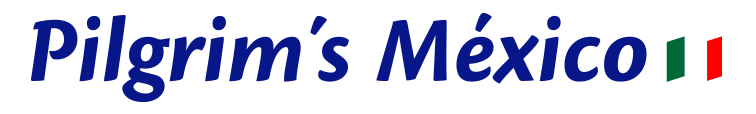
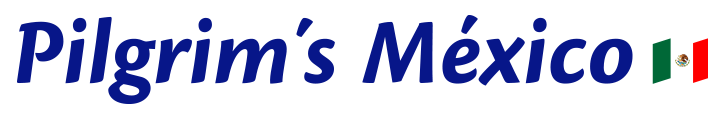
Cambios
Quitar al chef del inicio, reordenar slider de Fresco, Solo dejar
direcciones de nuestras plantas, aguila en bandera de Pilgrims Mexico,
Menus desplegables en mayuscula.

diff --git a/v1/nuestras_plantas.php b/v1/nuestras_plantas.php
@@ -99,49 +99,33 @@
 						    	<div class="col-lg-6 elem_animar">
 						    		<h3><img src="rec/img/p_incubadoras.png" alt="Icono plantas incubadoras" class="icon-pollito">Planta incubadora Antongo 1 y 2</h3>
 						    		<p class="p-plantas">
-						    			<strong>Ubicación:</strong> Carretera Antongo km 5.5, El Marqués, Querétaro.<br>
-										<strong>¿Qué procesa y cuánto?</strong><br>
-										Antongo 1: Pollito recién nacido, 1,455,000 pollitos por semana.<br>
-										Antongo 2: Pollito recién nacido, 108,864 pollitos por semana.
+						    			<strong>Ubicación:</strong> Carretera Antongo km 5.5, El Marqués, Querétaro.
 						    		</p>
 						    		<h3><img src="rec/img/p_incubadoras.png" alt="Icono plantas incubadoras" class="icon-pollito">Planta incubadora Balvanera 1 y 2</h3>
 						    		<p class="p-plantas">
-						    			<strong>Ubicación:</strong> Camino a la Esperanza- Nogales km 7, Colón, Querétaro.<br>
-										<strong>¿Qué procesa y cuánto?</strong><br>
-										Balvanera 1: Pollito de un día de edad, 420,000 pollitos por semana.<br>
-										Balvanera 2: pollito recién nacido, 300,000 por semana.
+						    			<strong>Ubicación:</strong> Camino a la Esperanza- Nogales km 7, Colón, Querétaro.
 						    		</p>
 						    		<h3><img src="rec/img/p_incubadoras.png" alt="Icono plantas incubadoras" class="icon-pollito">Planta incubadora La Esperanza</h3>
 						    		<p class="p-plantas">
-						    			<strong>Ubicación:</strong> Retorno de Don José No. 18 y 21 (respectivamente), Parque Industrial Balvanera, Corregidora, Querétaro.<br>
-										<strong>¿Qué procesa y cuánto?</strong><br>
-										Pollito de un día de edad, 260,000 pollitos por semana.
+						    			<strong>Ubicación:</strong> Retorno de Don José No. 18 y 21 (respectivamente), Parque Industrial Balvanera, Corregidora, Querétaro.
+						    		</p>
+						    		<h3><img src="rec/img/p_incubadoras.png" alt="Icono plantas incubadoras" class="icon-pollito">Planta incubadora Río Verde</h3>
+						    		<p class="p-plantas">
+						    			<strong>Ubicación:</strong> Calle Abasolo s/n Barrio Primero El Refugio, Cd. Fernández, San Luis Potosí.
 						    		</p>
 						    	</div>
 						    	<div class="col-lg-6 elem_animar">
-						    		<h3><img src="rec/img/p_incubadoras.png" alt="Icono plantas incubadoras" class="icon-pollito">Planta incubadora Río Verde</h3>
-						    		<p class="p-plantas">
-						    			<strong>Ubicación:</strong> Calle Abasolo s/n Barrio Primero El Refugio, Cd. Fernández, San Luis Potosí.<br>
-										<strong>¿Qué procesa y cuánto?</strong><br>
-										Pollito recién nacido, aproximadamente 1,730, 000 pollitos por semana.
-						    		</p>
 						    		<h3><img src="rec/img/p_incubadoras.png" alt="Icono plantas incubadoras" class="icon-pollito">Planta Incubadora Petsa</h3>
 						    		<p class="p-plantas">
-						    			<strong>Ubicación:</strong> Canatlán y Cuatro Ciénagas s/n Zona Industrial, Gómez Palacio, Durango.<br>
-										<strong>¿Qué procesa y cuánto?</strong><br>
-										Incubación para producción de pollito.
+						    			<strong>Ubicación:</strong> Canatlán y Cuatro Ciénagas s/n Zona Industrial, Gómez Palacio, Durango.
 						    		</p>
 						    		<h3><img src="rec/img/p_incubadoras.png" alt="Icono plantas incubadoras" class="icon-pollito">Planta Incubadora Citra</h3>
 						    		<p class="p-plantas">
-						    			<strong>Ubicación:</strong> Carretera Bermejillo- La Zarca km 11.5 + 2, Mapimi, Durango.<br>
-										<strong>¿Qué procesa y cuánto?</strong><br>
-										Incubación para producción de pollito.
+						    			<strong>Ubicación:</strong> Carretera Bermejillo- La Zarca km 11.5 + 2, Mapimi, Durango.
 						    		</p>
 						    		<h3><img src="rec/img/p_incubadoras.png" alt="Icono plantas incubadoras" class="icon-pollito">Planta incubadora Veracruz</h3>
 						    		<p class="p-plantas">
-						    			<strong>Ubicación:</strong> Localizada a 35 km de Boca del Río, Veracruz.<br>
-										<strong>¿Qué procesa y cuánto?</strong><br>
-										En la primera etapa de construcción, 300,000 nacimientos a la semana.
+						    			<strong>Ubicación:</strong> Localizada a 35 km de Boca del Río, Veracruz.
 						    		</p>
 						    	</div>
 						    </div>
@@ -152,41 +136,29 @@
 						    	<div class="col-lg-6 elem_animar">
 						    		<h3 ><img src="rec/img/p_alimentos.png" alt="Icono planta alimentos" class="icon-pollito">Planta de alimentos Querétaro</h3>
 						    		<p class="p-plantas">
-						    			<strong>Ubicación:</strong> Av. 5 de Febrero No. 1408, Col. San Pablo, Querétaro, Querétaro.<br>
-										<strong>¿Qué procesa y cuánto?</strong><br>
-										Alimento balanceado para aves, 1,872 toneladas diarias.
+						    			<strong>Ubicación:</strong> Av. 5 de Febrero No. 1408, Col. San Pablo, Querétaro, Querétaro.
 						    		</p>
 						    		<h3 ><img src="rec/img/p_alimentos.png" alt="Icono planta alimentos" class="icon-pollito">Planta de alimentos Colón</h3>
 						    		<p class="p-plantas">
-						    			<strong>Ubicación:</strong> Fraccionamiento Exhacienda, Col. Viborillas s/n, Colón, Querétaro.<br>
-										<strong>¿Qué procesa y cuánto?</strong><br>
-										Alimento balanceado para aves,  1,650 toneladas diarias.
+						    			<strong>Ubicación:</strong> Fraccionamiento Exhacienda, Col. Viborillas s/n, Colón, Querétaro.
 						    		</p>
 						    		<h3 ><img src="rec/img/p_alimentos.png" alt="Icono planta alimentos" class="icon-pollito">Planta de alimentos Saltillo</h3>
 						    		<p class="p-plantas">
-						    			<strong>Ubicación:</strong> Periférico Luis Echeverría Álvares y Blvd. Vito Alessio Robles, Saltillo, Coahuila.<br>
-										<strong>¿Qué procesa y cuánto?</strong><br>
-										Alimento balanceado para aves progenitoras y reproductoras, 576 toneladas diarias.
+						    			<strong>Ubicación:</strong> Periférico Luis Echeverría Álvares y Blvd. Vito Alessio Robles, Saltillo, Coahuila.
+						    		</p>
+						    		<h3 ><img src="rec/img/p_alimentos.png" alt="Icono planta alimentos" class="icon-pollito">Planta de alimentos San Luis Potosí</h3>
+						    		<p class="p-plantas">
+						    			<strong>Ubicación:</strong> Periférico Norte km 23.5, Municipio Soledad de Graciano Sánchez, San Luis Potosí.
 						    		</p>
 						    	</div>
 						    	<div class="col-lg-6 elem_animar">
-						    		<h3 ><img src="rec/img/p_alimentos.png" alt="Icono planta alimentos" class="icon-pollito">Planta de alimentos San Luis Potosí</h3>
-						    		<p class="p-plantas">
-						    			<strong>Ubicación:</strong> Periférico Norte km 23.5, Municipio Soledad de Graciano Sánchez, San Luis Potosí.<br>
-										<strong>¿Qué procesa y cuánto?</strong><br>
-										Alimento balanceado para aves, 660 toneladas diarias.
-						    		</p>
 						    		<h3><img src="rec/img/p_alimentos.png" alt="Icono planta alimentos" class="icon-pollito">Planta de Alimentos 1 Durango</h3>
 						    		<p class="p-plantas">
-						    			<strong>Ubicación:</strong> Valle de Guadiana No. 294, Parque Industrial Gómez Palacio, Durango.<br>
-										<strong>¿Qué procesa y cuánto?</strong><br>
-										Alimento balanceado para aves en su primera etapa, 30 toneladas por hora.
+						    			<strong>Ubicación:</strong> Valle de Guadiana No. 294, Parque Industrial Gómez Palacio, Durango.
 						    		</p>
 						    		<h3><img src="rec/img/p_alimentos.png" alt="Icono planta alimentos" class="icon-pollito">Planta de Alimentos 2 Durango</h3>
 						    		<p class="p-plantas">
-						    			<strong>Ubicación:</strong> Valle de Guadiana No. 355, Parque Industrial Gómez Palacio, Durango.<br>
-										<strong>¿Qué procesa y cuánto?</strong><br>
-										Alimento balanceado para aves de engorda y reproductoras.
+						    			<strong>Ubicación:</strong> Valle de Guadiana No. 355, Parque Industrial Gómez Palacio, Durango.
 						    		</p>
 						    		<h3><img src="rec/img/p_alimentos.png" alt="Icono planta alimentos" class="icon-pollito">Planta de alimentos Veracruz</h3>
 						    		<p class="p-plantas">
@@ -201,41 +173,29 @@
 						    	<div class="col-lg-6 elem_animar">
 						    		<h3><img src="rec/img/p_procesos.png" alt="Icono planta de procesos" class="icon-pollito">Planta de proceso Tepeji de Río</h3>
 						    		<p class="p-plantas">
-						    			<strong>Ubicación:</strong> Km 72.5 Antigua Carretera México-Querétaro, Tepeji de Río, Hidalgo.<br>
-										<strong>¿Qué procesa y cuánto?</strong><br>
-										190 mil aves por día: rosticero, KFC, entero, deshuesado, marinado, IQF, partido y vísceras.
+						    			<strong>Ubicación:</strong> Km 72.5 Antigua Carretera México-Querétaro, Tepeji de Río, Hidalgo.
 						    		</p>
 						    		<h3><img src="rec/img/p_procesos.png" alt="Icono planta de procesos" class="icon-pollito">Planta de proceso Los Cues</h3>
 						    		<p class="p-plantas">
-						    			<strong>Ubicación:</strong> Km 3 a Carretera a los Cues, El Marqués, Querétaro.<br>
-										<strong>¿Qué procesa y cuánto?</strong><br>
-										264 mil aves por día: rosticero, KFC, entero, partido y vísceras.
+						    			<strong>Ubicación:</strong> Km 3 a Carretera a los Cues, El Marqués, Querétaro.
 						    		</p>
 						    		<h3><img src="rec/img/p_procesos.png" alt="Icono planta de procesos" class="icon-pollito">Planta de proceso San Luis Potosí</h3>
 						    		<p class="p-plantas">
-						    			<strong>Ubicación:</strong> Av. De las Flores No. 95, Soledad de Graciano Sánchez, San Luis Potosí.<br>
-										<strong>¿Qué procesa y cuánto?</strong><br>
-										112 mil aves por día: rosticero, entero, partido y vísceras.
+						    			<strong>Ubicación:</strong> Av. De las Flores No. 95, Soledad de Graciano Sánchez, San Luis Potosí.
 						    		</p>
 						    	</div>
 						    	<div class="col-lg-6 elem_animar">
 						    		<h3><img src="rec/img/p_procesos.png" alt="Icono planta de procesos" class="icon-pollito">Planta Citra</h3>
 						    		<p class="p-plantas">
-						    			<strong>Ubicación:</strong> Prol. Fco. I. Madero No. 257, Col. Centro en Gómez Palacio, Durango.<br>
-										<strong>¿Qué procesa y cuánto?</strong><br>
-										3,900,000 aves al mes: IQF/FF y deshuesado.
+						    			<strong>Ubicación:</strong> Prol. Fco. I. Madero No. 257, Col. Centro en Gómez Palacio, Durango.
 						    		</p>
 						    		<h3><img src="rec/img/p_procesos.png" alt="Icono planta de procesos" class="icon-pollito">Planta Porvenir</h3>
 						    		<p class="p-plantas">
-						    			<strong>Ubicación:</strong> Carretera a Cd. Juárez km 20.5, Gómez Palacio, Durango.<br>
-										<strong>¿Qué procesa y cuánto?</strong><br>
-										62,400,000 aves al año, producto totalmente cocinado, emplayado y freso.
+						    			<strong>Ubicación:</strong> Carretera a Cd. Juárez km 20.5, Gómez Palacio, Durango.
 						    		</p>
 						    		<h3><img src="rec/img/p_procesos.png" alt="Icono planta de procesos" class="icon-pollito">Planta La Popular</h3>
 						    		<p class="p-plantas">
-						    			<strong>Ubicación:</strong> Carretera Gómez Palacio a Fco. I. Madero km 6.5, Gómez Palacio, Durango.<br>
-										<strong>¿Qué procesa y cuánto?</strong><br>
-										Tiene una capacidad de 3,345,333 aves por mes.
+						    			<strong>Ubicación:</strong> Carretera Gómez Palacio a Fco. I. Madero km 6.5, Gómez Palacio, Durango.
 						    		</p>
 						    	</div>
 					      	</div>

diff --git a/v1/template.php b/v1/template.php
@@ -100,9 +100,9 @@ function menu($elemento = ""){
             <div>NUESTRAS<br>MARCAS <i class="fa fa-angle-double-down" aria-hidden="true"></i></div>
           </a>
           <ul class="dropdown-menu">
-            <li><a href="pilgrims_fresco.php"><div>Pilgrim's Fresco</div></a></li>
-            <li><a href="valor_agregado.php"><div>Pilgrim's Valor Agregado</div></a></li>
-            <li><a href="http://www.deldia.com.mx/index.jsp" target="_blank"><div>Del Día</div></a></li>                        
+            <li><a href="pilgrims_fresco.php"><div>PILGRIM'S FRESCO</div></a></li>
+            <li><a href="valor_agregado.php"><div>PILGRIM'S VALOR AGREGADO</div></a></li>
+            <li><a href="http://www.deldia.com.mx/index.jsp" target="_blank"><div>DEL DÍA</div></a></li>                        
           </ul>
         </li>
         <li class="<?= $tres;?>">
@@ -123,8 +123,8 @@ function menu($elemento = ""){
             <div>PROCESOS <i class="fa fa-angle-double-down" aria-hidden="true"></i></div>
           </a>
           <ul class="dropdown-menu">
-            <li><a href="estandares.php"><div>Estándares de Calidad</div></a></li>
-            <li><a href="ciclo_de_proceso.php"><div>Ciclo de Proceso</div></a></li>                      
+            <li><a href="estandares.php"><div>ESTÁNDARES DE CALIDAD</div></a></li>
+            <li><a href="ciclo_de_proceso.php"><div>CICLO DE PROCESO</div></a></li>                      
           </ul>
         </li>
         <li class="dropdown <?= $siete;?>">
@@ -133,12 +133,12 @@ function menu($elemento = ""){
             <div>NUESTRA<br>EMPRESA <i class="fa fa-angle-double-down" aria-hidden="true"></i></div>
           </a>
           <ul class="dropdown-menu">
-            <li><a href="historia_pilgrims.php"><div>Historia Pilgrim's</div></a></li>
-            <li><a href="mexico.php"><div>Pilgrim's México</div></a></li>
-            <li><a href="nuestras_plantas.php"><div>Nuestras Plantas</div></a></li>  
-            <li><a href="filosofia.php"><div>Filosofía</div></a></li>  
-            <li><a href="distintivos.php"><div>Distintivos</div></a></li>  
-            <li><a href="corporativo.php"><div>Video Corporativo</div></a></li>                     
+            <li><a href="historia_pilgrims.php"><div>HISTORIA PILGRIM'S</div></a></li>
+            <li><a href="mexico.php"><div>PILGRIM'S MÉXICO</div></a></li>
+            <li><a href="nuestras_plantas.php"><div>NUESTRAS PLANTAS</div></a></li>  
+            <li><a href="filosofia.php"><div>FILOSOFÍA</div></a></li>  
+            <li><a href="distintivos.php"><div>DISTINTIVOS</div></a></li>  
+            <li><a href="corporativo.php"><div>VIDEO CORPORATIVO</div></a></li>                     
           </ul>
         </li>
         <li class="dropdown <?= $ocho;?>">
@@ -147,8 +147,8 @@ function menu($elemento = ""){
             <div>CONTACTO <i class="fa fa-angle-double-down" aria-hidden="true"></i></div>
           </a>
           <ul class="dropdown-menu">
-            <li><a href="servicio_cliente.php"><div>Servicio al Cliente</div></a></li>
-            <li><a href="mapa.php"><div>Oficinas</div></a></li>
+            <li><a href="servicio_cliente.php"><div>SERVICIO AL CLIENTE</div></a></li>
+            <li><a href="mapa.php"><div>OFICINAS</div></a></li>
           </ul>
         </li>
         <li class="dropdown <?= $nueve;?>">

diff --git a/v1/pilgrims_fresco.php b/v1/pilgrims_fresco.php
@@ -30,9 +30,9 @@
 	        <div class="carousel-inner">
 	            <div class="item active">
 	                <div class="fill" >
-	                	<img class="img-responsive slide-inicio" src="rec/img/banners_jpg/fresco_polloconmole_1.jpg" alt="Pilgrim's fresco pollo con mole">
-		            </div>
-	                <div class="flecha text-center animated tada" style="position:absolute">
+	                	<img class="img-responsive slide-inicio" src="rec/img/banners_jpg/fresco_tacosdearrachera_3.jpg" alt="Pilgrim's fresco tacos de arrachera">
+	                </div>
+	                <div class="flecha text-center animated infinite tada" style="position:absolute">
 						<a href="#b">
 							<i class="fa fa-chevron-down fa-2x" aria-hidden="true"></i>
 						</a>
@@ -49,10 +49,10 @@
 					</div>	
 	            </div>
 	            <div class="item">
-	                <div class="fill" >
-	                	<img class="img-responsive slide-inicio" src="rec/img/banners_jpg/fresco_tacosdearrachera_3.jpg" alt="Pilgrim's fresco tacos de arrachera">
-	                </div>
-	                <div class="flecha text-center animated infinite tada" style="position:absolute">
+	            	<div class="fill" >
+	                	<img class="img-responsive slide-inicio" src="rec/img/banners_jpg/fresco_polloconmole_1.jpg" alt="Pilgrim's fresco pollo con mole">
+		            </div>
+	                <div class="flecha text-center animated tada" style="position:absolute">
 						<a href="#b">
 							<i class="fa fa-chevron-down fa-2x" aria-hidden="true"></i>
 						</a>
@@ -91,7 +91,7 @@
 			        <div class="carousel-inner">
 			            <div class="item active">
 			                <div class="fill" style="text-align:center;">
-			                	<p style="margin-top:1%;margin-bottom:1%;">CRIADOS EN MÉXICO <img src="rec/img/mexico.png" alt="México"></p>
+			                	<p style="margin-top:1%;margin-bottom:1%;">POLLOS CRIADOS EN MÉXICO <img src="rec/img/mexico.png" alt="México"></p>
 				            </div>	
 			            </div>
 			            <div class="item">

diff --git a/v1/valor_agregado.php b/v1/valor_agregado.php
@@ -89,7 +89,7 @@
 			        <div class="carousel-inner">
 			            <div class="item active">
 			                <div class="fill" style="text-align:center;">
-			                	<p style="margin-top:1%;margin-bottom:1%;">CRIADOS EN MÉXICO <img src="rec/img/mexico.png" alt="México"></p>
+			                	<p style="margin-top:1%;margin-bottom:1%;">POLLOS EN MÉXICO <img src="rec/img/mexico.png" alt="México"></p>
 				            </div>	
 			            </div>
 			            <div class="item">
